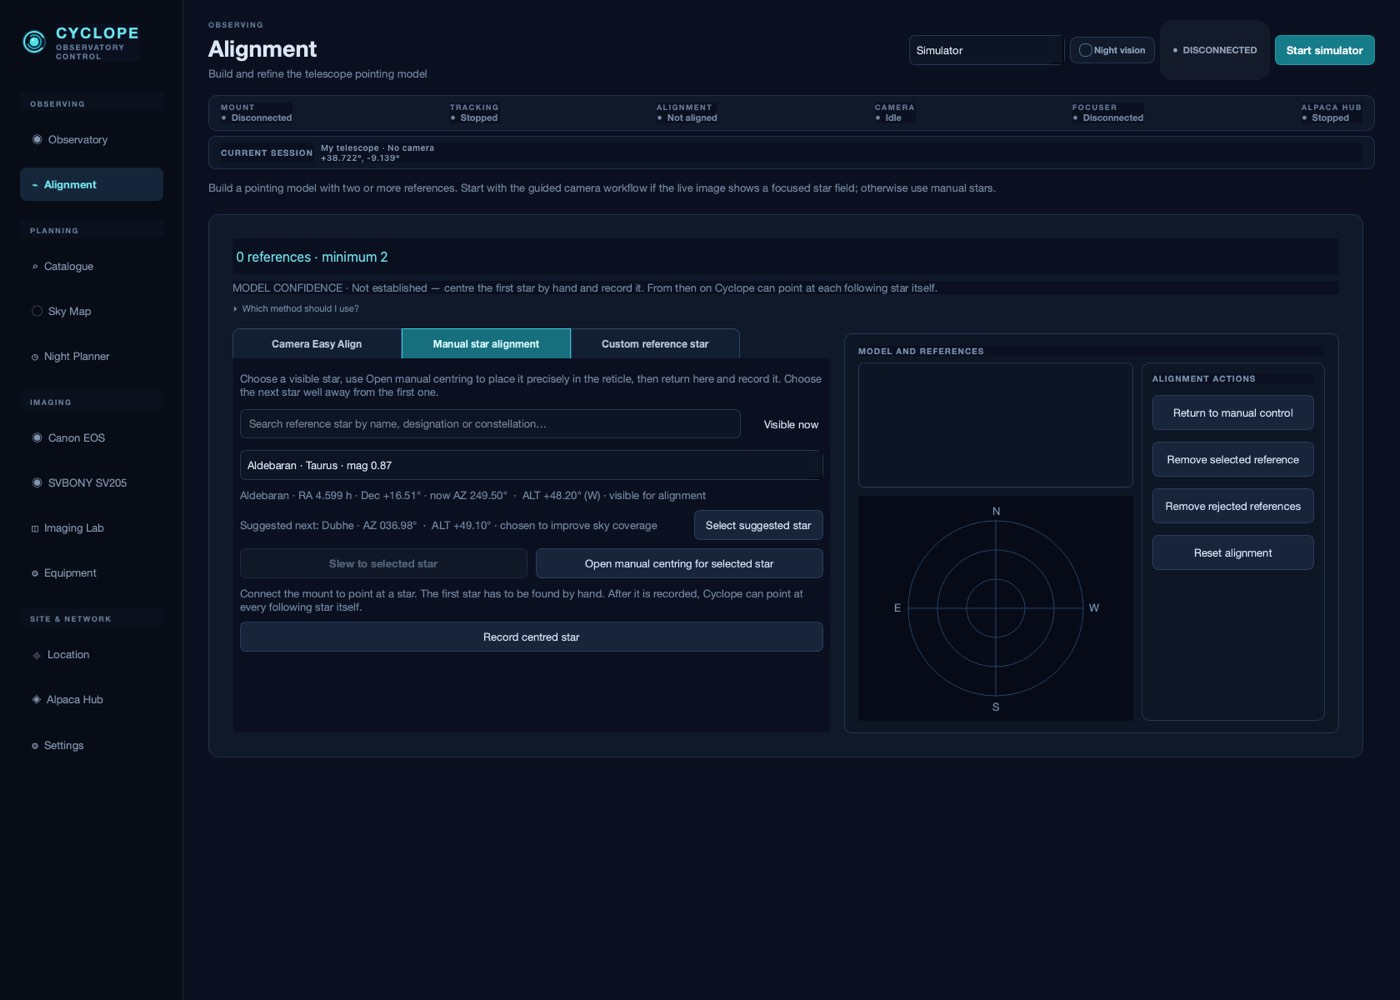
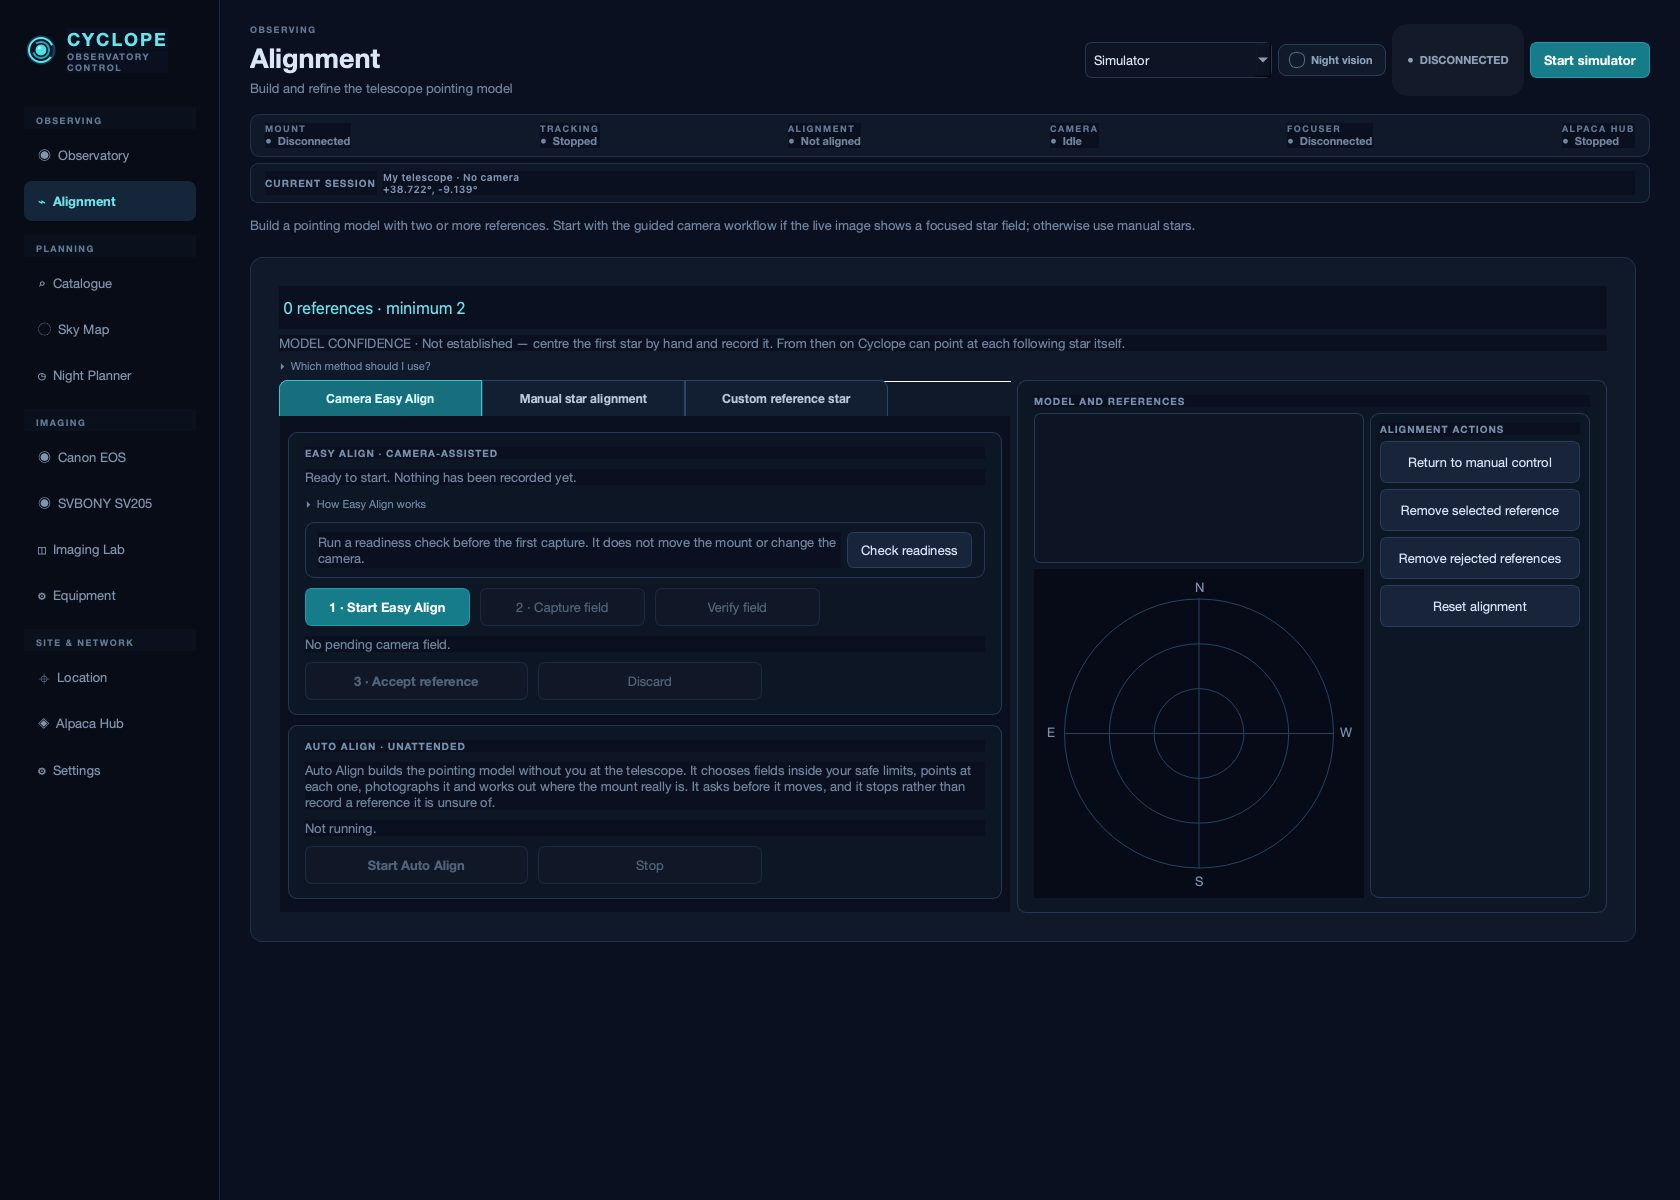
Add files via upload

diff --git a/index.html b/index.html
@@ -82,7 +82,7 @@
     <div class="split reverse">
       <div class="text">
         <p class="label">Alignment and pointing</p>
-        <h2>Teach it the sky once, and it lands.</h2>
+        <h2>Point it once. Or let it point itself.</h2>
         <p>
           A mount knows where it thinks it is pointing. A pointing model is what
           closes the gap between that and the sky. Cyclope builds one from two or
@@ -90,19 +90,30 @@
           whether the model is any good rather than hoping.
         </p>
         <p>
-          With a camera and a plate solver, you need not identify anything: point
-          roughly at a star-rich field, photograph it, and Cyclope works out where
-          the telescope is actually looking. It asks before it changes the model,
-          and it never moves the telescope on its own.
+          <strong>Auto Align builds it for you.</strong> Press it and Cyclope
+          chooses a bright field inside the limits you set, points at it, waits
+          for the tube to settle, photographs it and works out exactly where the
+          telescope is looking — then moves to another part of the sky and does it
+          again, until the model stands. You need not identify a single star.
+        </p>
+        <p>
+          It asks before the first movement and names the field it is going to,
+          because it knows your altitude and azimuth limits but not the wall, the
+          tree or the cable in your garden. One button stops it where it stands.
+          And it will not record a reference it is unsure of: a field that
+          disagrees with the model is left for you to judge rather than quietly
+          accepted while you are indoors.
         </p>
         <p class="muted">
-          The same solving centres a target properly: photograph, compare, correct,
-          and the object is where you meant it to be rather than near enough.
+          Rather do it yourself? The guided workflow is still there: point at any
+          star-rich field, photograph it, look at what Cyclope proposes, accept it.
+          Either way the same solving centres a target properly afterwards — the
+          object ends up where you meant it, not near enough.
         </p>
       </div>
       <figure>
         <div class="shot"><img src="assets/alignment.jpg" alt="The Alignment page, building a pointing model from recorded references"></div>
-        <figcaption>Building the pointing model, with the error it is correcting in view.</figcaption>
+        <figcaption>The guided workflow, with Auto Align beneath it and the model's own error in view.</figcaption>
       </figure>
     </div>
   </div>
@@ -271,7 +282,7 @@
     <p class="label">In one application</p>
     <h2>What would otherwise be five programs.</h2>
     <div class="grid">
-      <div class="cell"><h3>Alignment and pointing</h3><p>Build a pointing model from two or three stars, by eye or by having the camera identify the field for you.</p></div>
+      <div class="cell"><h3>Alignment and pointing</h3><p>Build the model from two or three stars yourself — or press Auto Align and let Cyclope choose the fields, point at them and build it.</p></div>
       <div class="cell"><h3>A catalogue worth browsing</h3><p>Messier and Caldwell in full, with what each object needs and whether tonight suits it.</p></div>
       <div class="cell"><h3>Plate solving</h3><p>Photograph the field, find out exactly where the telescope is looking, and centre the target properly.</p></div>
       <div class="cell"><h3>Framing and mosaics</h3><p>See how the object sits on your sensor before you spend the night on it.</p></div>

diff --git a/guide.html b/guide.html
@@ -83,7 +83,11 @@
             names the transport once it is connected.</span></li>
           <li><span>Do the alignment. Two stars is the minimum, three in a different part
             of the sky is what turns a fit into a model worth trusting. Without it,
-            <em>go to</em> will not land.</span></li>
+            <em>go to</em> will not land. With the camera running, <strong>Auto
+            Align</strong> does the whole of it for you: it asks once, then chooses
+            the fields, points at each, photographs it and builds the model. Check
+            the telescope can swing freely before you confirm — it knows your safe
+            limits, not your garden.</span></li>
           <li><span>Start the camera and its live view.</span></li>
           <li><span>Set the location once. Everything that follows — where objects are,
             when they set, how fast the field turns — is computed from it.</span></li>
